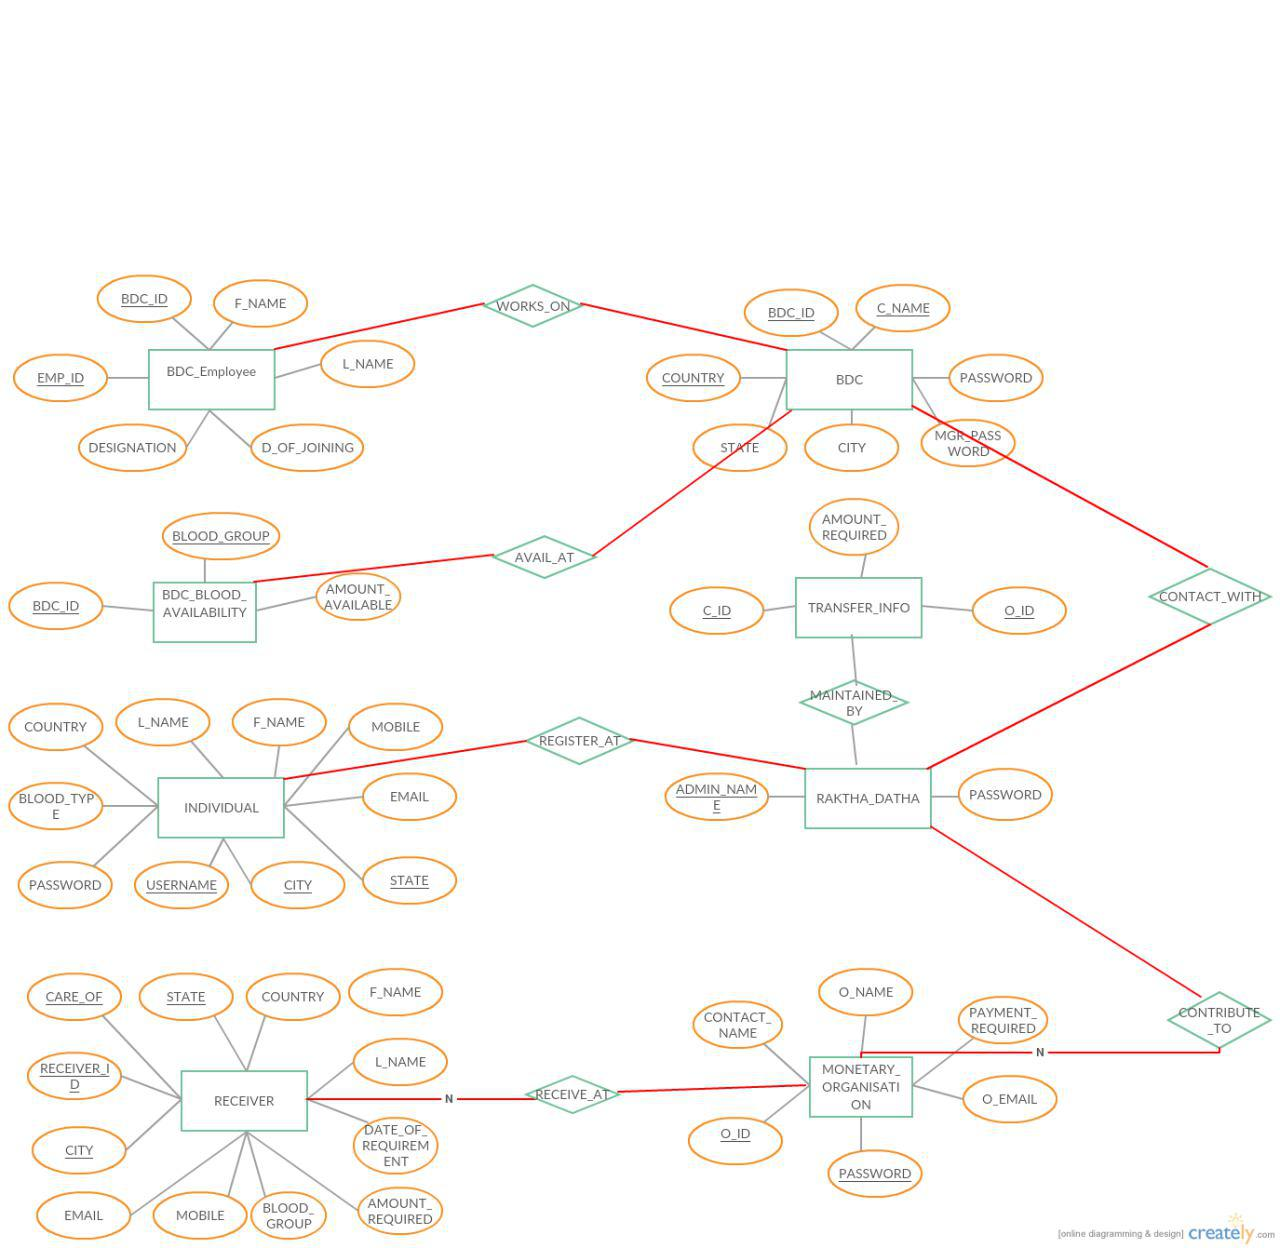
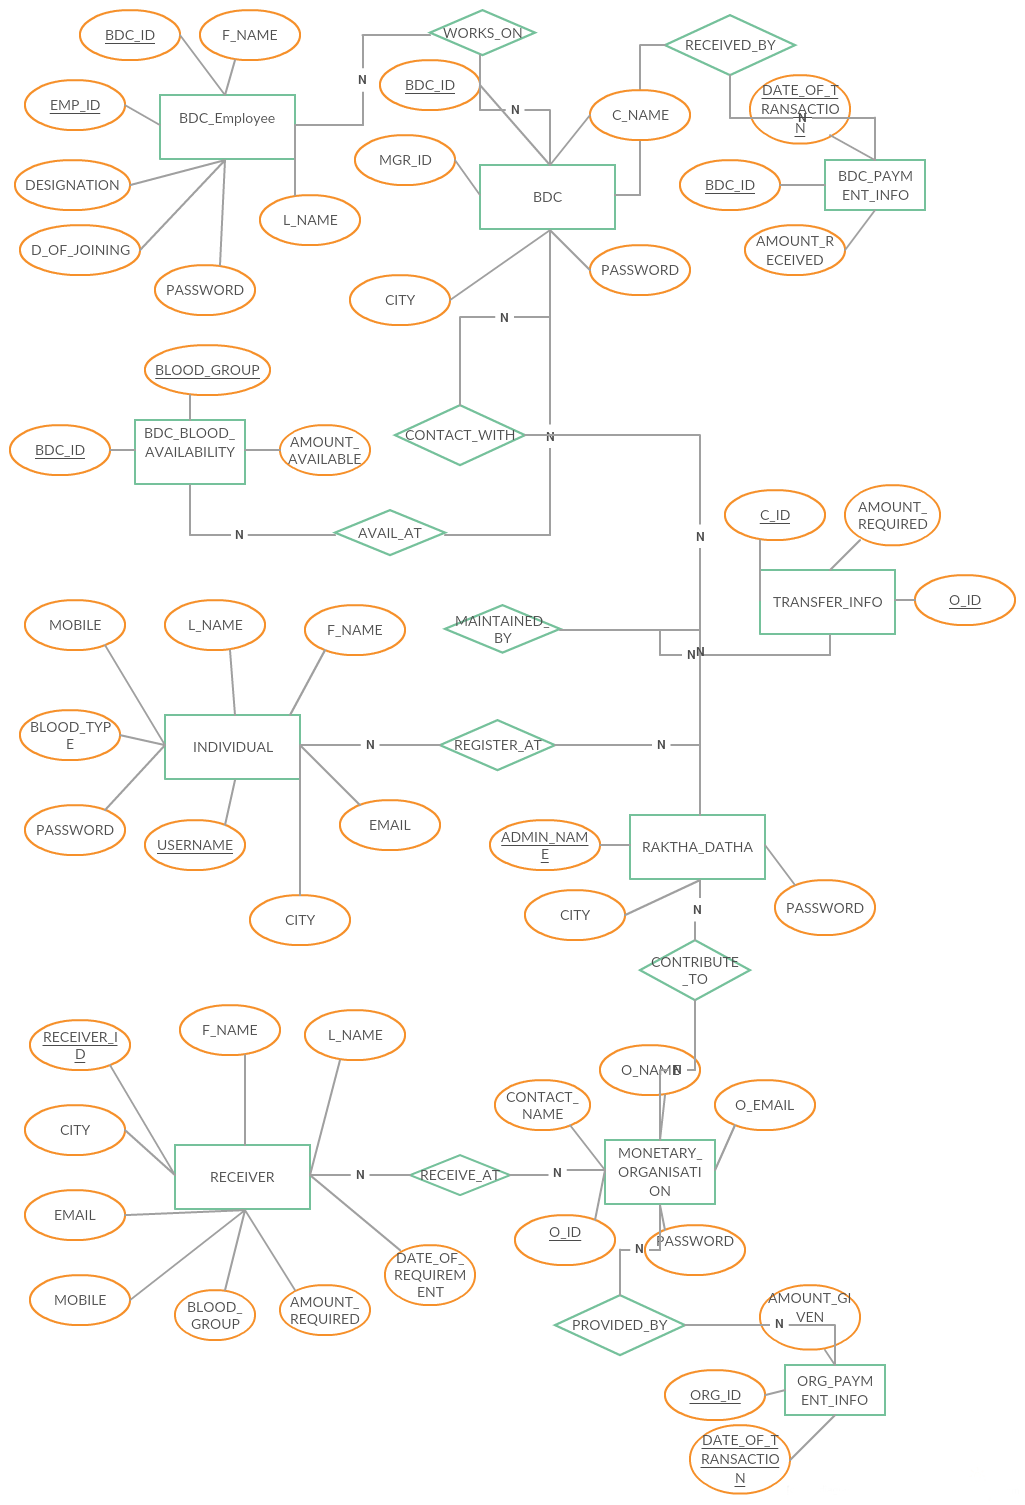
er diagram and schema added

diff --git a/ProjectDesign/introduction.tex b/ProjectDesign/introduction.tex
@@ -18,9 +18,10 @@ used to design and implement a database that can be used to manage
 a blood donation system. Each subsection of the report will correspond to an
 important feature of database design.
 
+\begin{sloppypar}
 \section{Database Schema}
 
-\subsection{BDC Employee}
+\subsection{BDC EMPLOYEE}
 
 \begin{tabular}{ | c | c | c | c | c | c | c | }
  \hline
@@ -28,62 +29,110 @@ important feature of database design.
  \hline
 \end{tabular}
 
-\subsection{BDC Employee}
+\subsection{BDC BLOOD AVAILABLITY}
 
-\begin{tabular}{ | c | c | c | c | c | c | c | }
+\begin{tabular}{ | c | c | c | }
  \hline
- EMP ID & BDC ID & F NAME & L NAME & DESIGNATION & DATE OF JOIN & PASSWORD \\
- \hline
-\end{tabular}
-
-\subsection{BDC Employee}
-
-\begin{tabular}{ | c | c | c | c | c | c | c | }
- \hline
- EMP ID & BDC ID & F NAME & L NAME & DESIGNATION & DATE OF JOIN & PASSWORD \\
+ BDC ID & BLOOD GROUP & BLOOD AVAILABLE \\
  \hline
 \end{tabular}
 
-\subsection{BDC Employee}
+\subsection{BDC}
 
-\begin{tabular}{ | c | c | c | c | c | c | c | }
+\begin{tabular}{ | c | c | c | c | c | }
  \hline
- EMP ID & BDC ID & F NAME & L NAME & DESIGNATION & DATE OF JOIN & PASSWORD \\
+ BDC ID & CONTACT NAME & PASSWORD & MGR ID & CITY \\
  \hline
-\end{tabular}
+\end{tabular} \\ \\
 
-\subsection{BDC Employee}
+\subsection{BDC PAYMENT INFO}
 
-\begin{tabular}{ | c | c | c | c | c | c | c | }
+\begin{tabular}{ | c | c | c | }
  \hline
- EMP ID & BDC ID & F NAME & L NAME & DESIGNATION & DATE OF JOIN & PASSWORD \\
- \hline
-\end{tabular}
-
-\subsection{BDC Employee}
-
-\begin{tabular}{ | c | c | c | c | c | c | c | }
- \hline
- EMP ID & BDC ID & F NAME & L NAME & DESIGNATION & DATE OF JOIN & PASSWORD \\
+ BDC ID & AMOUNT RECEIVED & DATE OF TRANSACTION \\
  \hline
 \end{tabular}
 
-\subsection{BDC Employee}
+\subsection{INDIVIDUAL}
 
-\begin{tabular}{ | c | c | c | c | c | c | c | }
+\begin{tabular}{ | c | c | c | c | }
  \hline
- EMP ID & BDC ID & F NAME & L NAME & DESIGNATION & DATE OF JOIN & PASSWORD \\
+ USER ID & PASSWORD & BLOOD TYPE & MOBILE NUMBER \\
+ \hline
+\end{tabular}
+\begin{tabular}{ | c | c | c | c | }
+ \hline
+ E-MAIL & F NAME & L NAME & CITY \\
  \hline
 \end{tabular}
 
-\subsection{BDC Employee}
+\subsection{RECEIVER}
 
-\begin{tabular}{ | c | c | c | c | c | c | c | }
+\begin{tabular}{ | c | c | c | c | c | }
  \hline
- EMP ID & BDC ID & F NAME & L NAME & DESIGNATION & DATE OF JOIN & PASSWORD \\
+ RECEIVER ID & F NAME & L NAME & BLOOD GROUP & E MAIL \\
+ \hline
+\end{tabular}
+\begin{tabular}{ | c | c | c | c | }
+ \hline
+ MOBILE NUMBER & AMOUNT REQUIRED & DATE OF REQUIREMENT & CITY \\
  \hline
 \end{tabular}
 
+\subsection{MONETARY ORGANISATION}
+
+\begin{tabular}{ | c | c | c | c | }
+ \hline
+ ORG ID & ORG NAME & CONTACT NAME & E MAIL \\
+ \hline
+\end{tabular}
+
+\begin{tabular}{ | c | c | c | }
+ \hline
+ PASSWORD & CONTACT NUMBER & CITY \\
+ \hline
+\end{tabular} \\ \\
+
+\subsection{ORGANISATION PAYMENT INFO}
+
+\begin{tabular}{ | c | c | c | }
+ \hline
+ ORG ID & PAYMENT GIVEN & DATE OF TRANSACTION \\
+ \hline
+\end{tabular}
+
+\subsection{RAKTHADATHA}
+
+\begin{tabular}{ | c | c | c | }
+ \hline
+ ADMIN ID & PASSWORD & CITY \\
+ \hline
+\end{tabular}
+
+\subsection{TRANSFER INFO}
+
+\begin{tabular}{ | c | c | c |}
+ \hline
+ ORG ID & BDC ID & AMOUNT TRANSFERED \\
+ \hline
+\end{tabular}
+
+\subsection{CITY - STATE}
+
+\begin{tabular}{ | c | c | }
+ \hline
+ CITY & STATE \\
+ \hline
+\end{tabular}
+
+\subsection{STATE - COUNTRY}
+
+\begin{tabular}{ | c | c | }
+ \hline
+ STATE & COUNTRY \\
+ \hline
+\end{tabular}
+\end{sloppypar}
 
 \section{Entity Relationship Diagram}
 \begin{figure}[htb]
@@ -93,5 +142,8 @@ important feature of database design.
 \label{fig:label} % insert suitable label, this is used to refer to a fig from within the text as shown above
 \end{figure}
 
-\section{Glossary}
-BDC Employee : Blood Donation Centre Employee
+%\section{Unknown Terms}
+%BDC : Blood Donation Centre \\
+%EMP : Employee \\
+%MGR : Manager \\
+%ORG : Organisation \\
